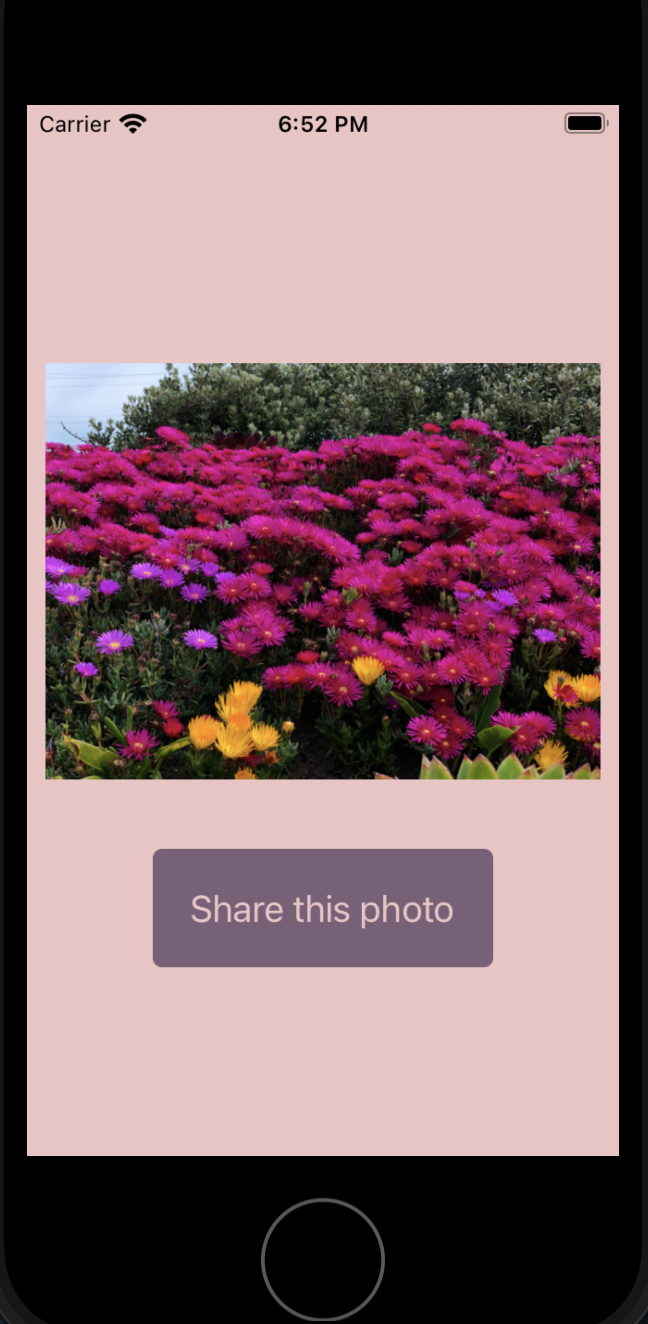
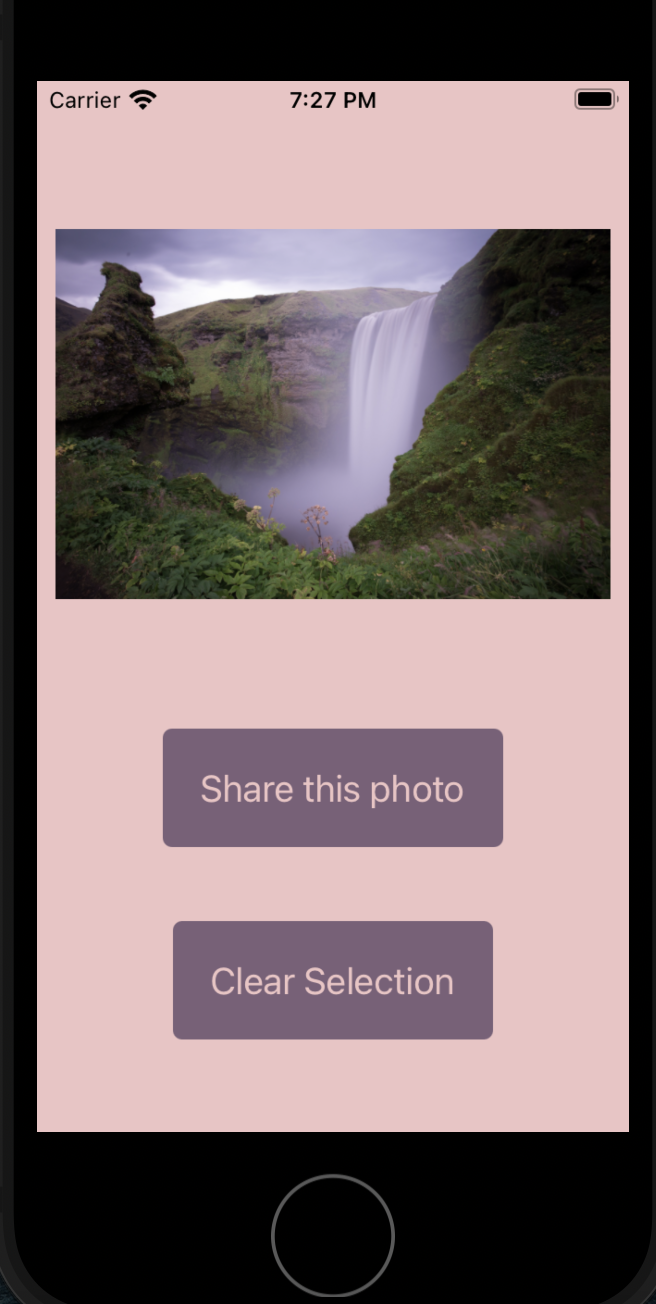
added clear selection button

diff --git a/App.js b/App.js
@@ -62,7 +62,11 @@ export default function App() {
           style={styles.thumbnail}
         />
         <TouchableOpacity onPress={openShareDialogAsync} style={styles.buttonBg}>
-          <Text style={styles.button}>Share this photo</Text>
+          <Text style={styles.buttonText}>Share this photo</Text>
+        </TouchableOpacity>
+
+        <TouchableOpacity onPress={() => setSelectedImage(null)} style={styles.buttonBg}>
+          <Text style={styles.buttonText}>Clear Selection</Text>
         </TouchableOpacity>
       </View>
     );
@@ -80,7 +84,7 @@ export default function App() {
       <TouchableOpacity
         onPress={openImagePickerAsync}
         style={styles.buttonBg}>
-        <Text style={styles.button}>Pick a photo</Text>
+        <Text style={styles.buttonText}>Pick a photo</Text>
       </TouchableOpacity>
 
       <StatusBar style="auto" />
@@ -96,7 +100,7 @@ const styles = StyleSheet.create({
     textAlign: 'center',
     fontSize: 18,
   },
-  button: {
+  buttonText: {
     fontSize: 20,
     color: '#eec4c4'
   },
@@ -104,6 +108,7 @@ const styles = StyleSheet.create({
     backgroundColor: '#7b6079',
     padding: 20,
     borderRadius: 5,
+    margin: 20,
   },
   container: {
     flex: 1,
